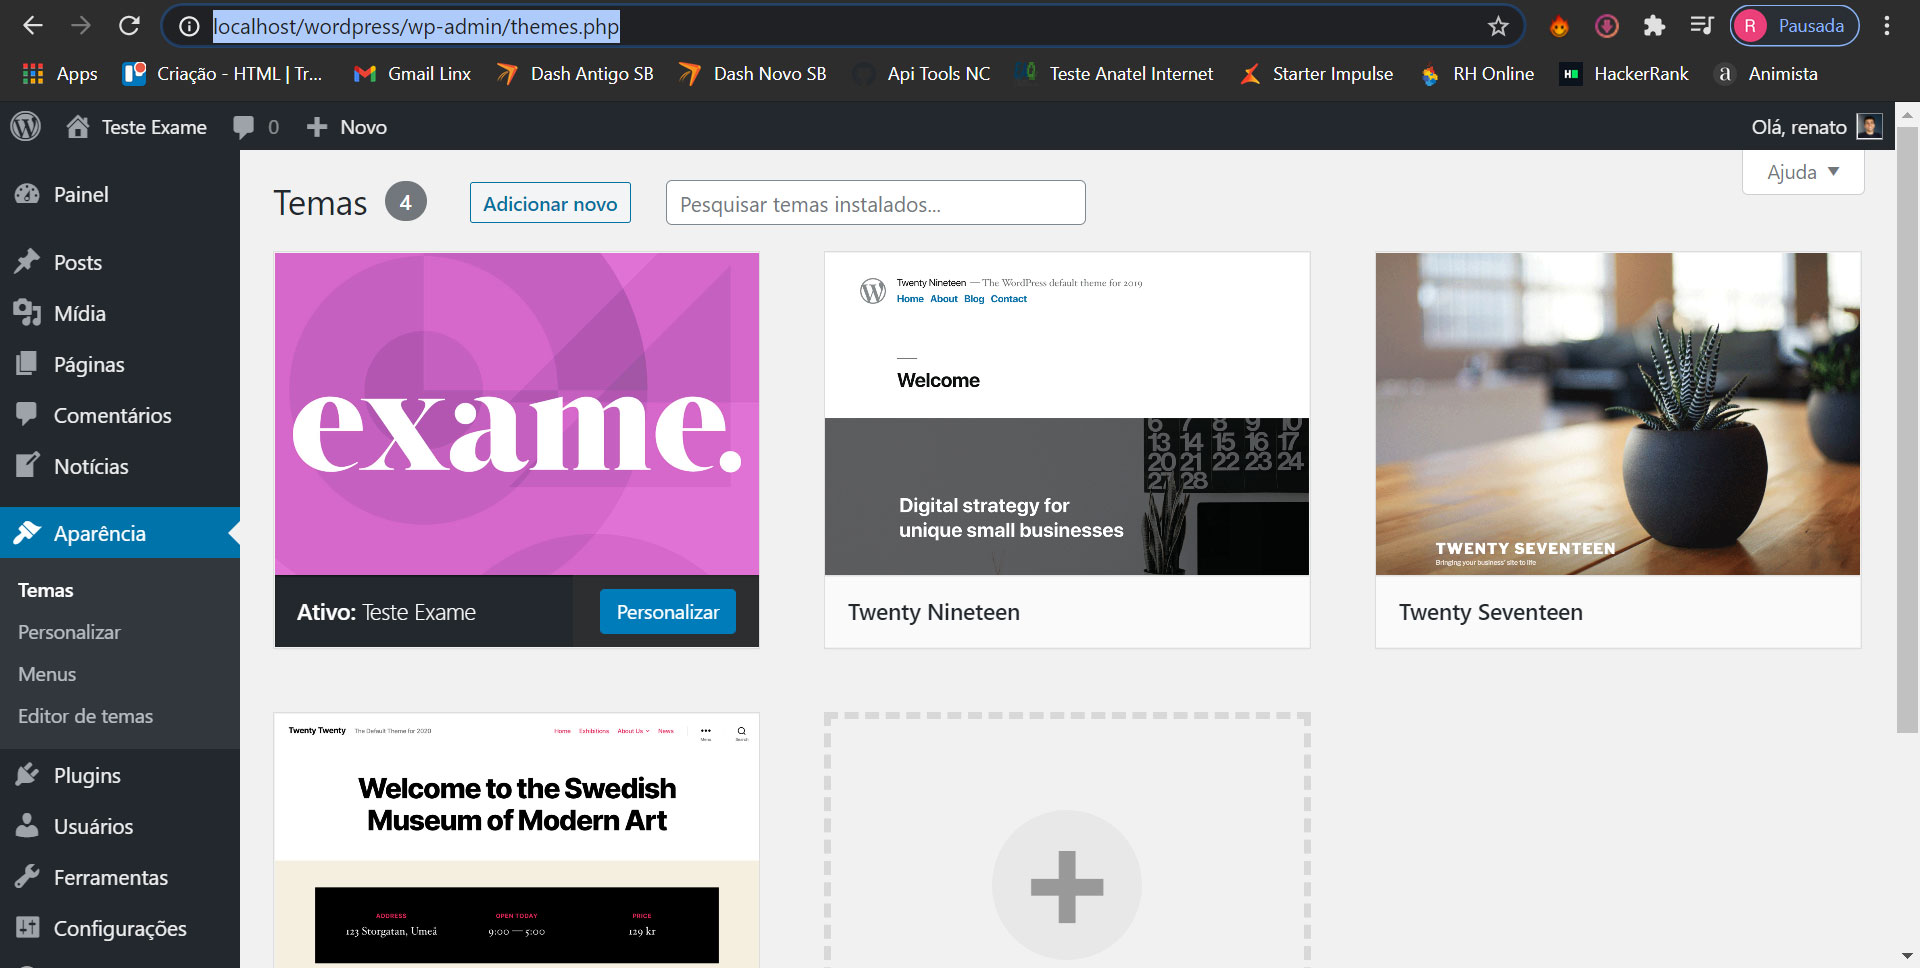
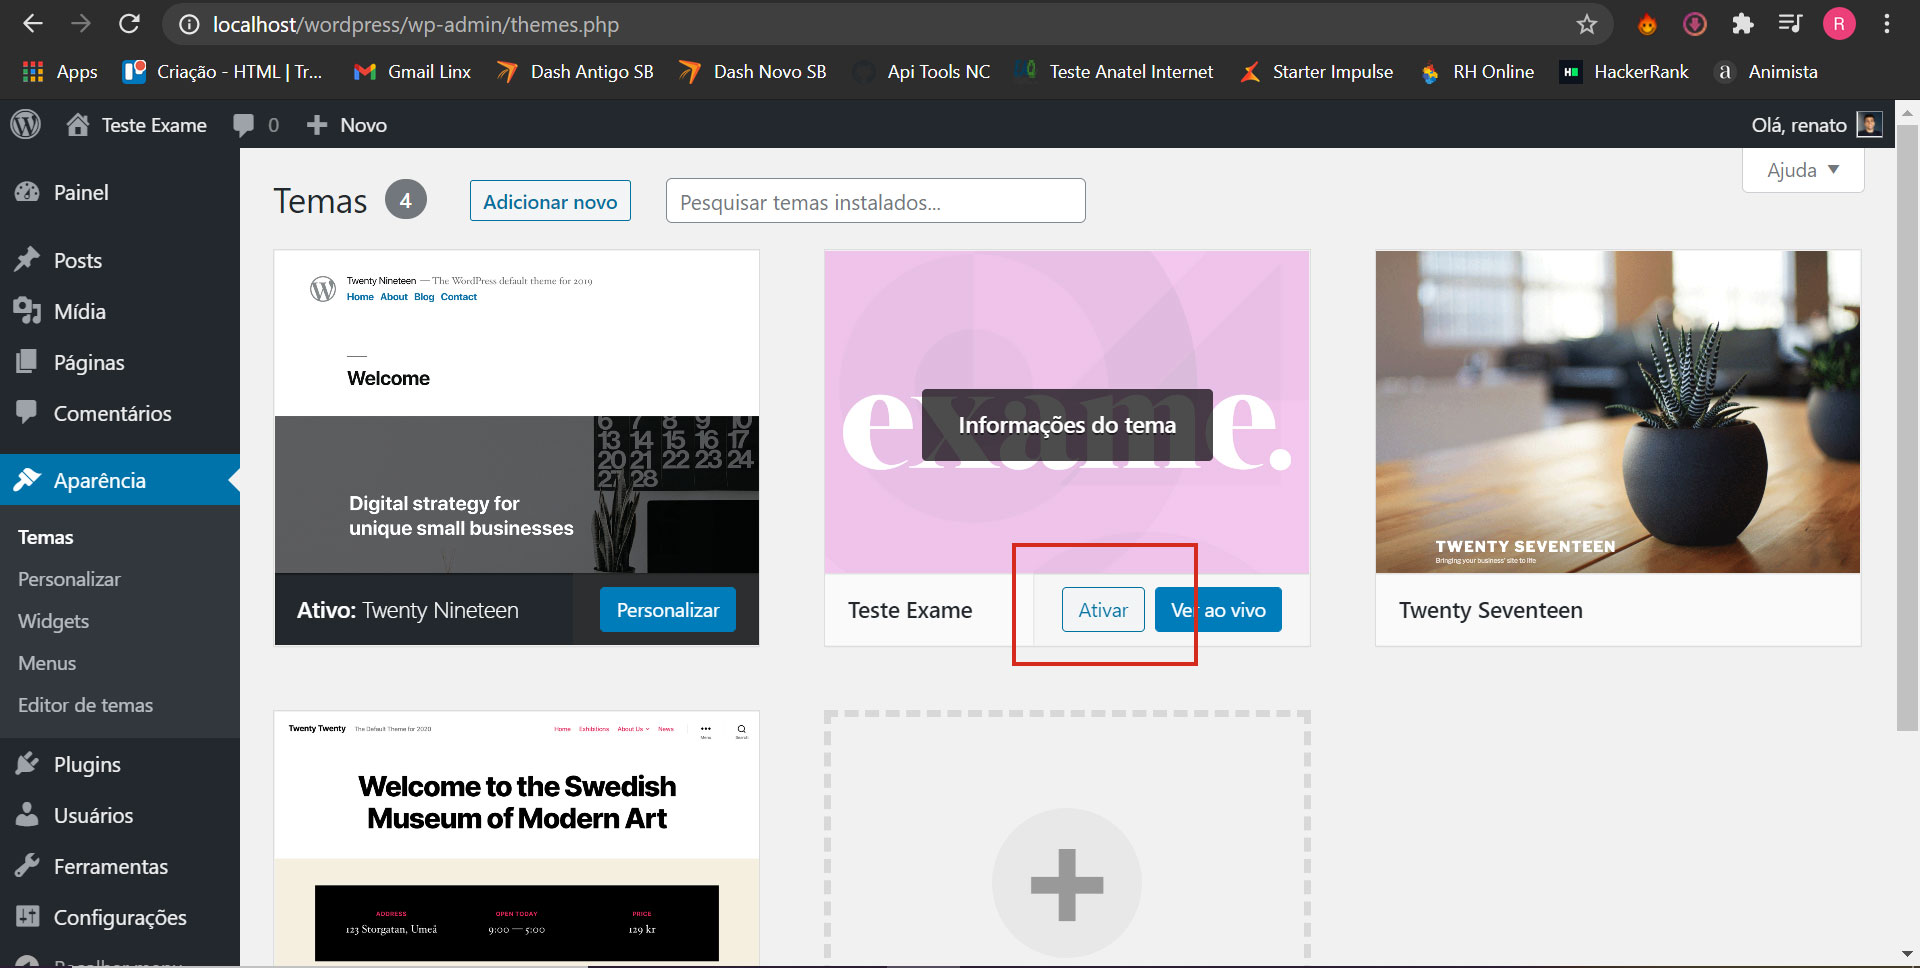
Novas informações no READ.ME

diff --git a/README.md b/README.md
@@ -4,13 +4,16 @@ Instruções Iniciais:
 
 - Instale um ambiente PHP. Eu usei o [XAMPP](https://www.apachefriends.org/pt_br/index.html). Instale o wordpress na máquina local.
 - Navegue para: ...\wp-content\themes\ e jogue dentro, a branch master desse repositório.
-- [Localize o tema no dashboard do WP](#localize-o-tema), navegando para Aparência > Temas (.../wp-admin/themes.php).
+- [Localize e ative o tema no dashboard do WP](#localize-e-ative-o-tema), navegando para Aparência > Temas (.../wp-admin/themes.php).
 - [Crie uma página chamada Notícias](#crie-uma-pagina-chamada-noticias), navegando para Páginas > Todas as páginas > Adicionar Nova (.../wp-admin/edit.php?post_type=page). OBS: Não precisa escrever nada nela, se não quiser, mas é necessário, criá-la e salvá-la. 
 - [Crie e Categorize as Notícias](#crie-e-categorize-noticias), navegando para Notícias > Notícias > Adicionar Nova (.../wp-admin/edit.php?post_type=noticias).
 - É importante [certificar que os permalinks estão selecionados como nome do post](#importante) em Configurações > Links Permanentes (.../wp-admin/options-permalink.php), senão as páginas das notícias não abrirão, e você será redirecionado para a home do site.
 - Para consultar o json com todas as notícias, acrescente a url da home: **/wp-json/wp/v2/noticias/**. Exemplo: http://localhost/wordpress/wp-json/wp/v2/noticias/.
+- Se desejar, [crie um novo usuário e senha, com a função de editor](#crie-um-novo-usuario-editor). Faça o login novamente, para ver como o dash dele é mais limpo e adaptado as necessidades que ele terá.
 
-## Localize o tema
+Crie um novo usuário editor
+
+## Localize e Ative o tema
 
 <p align='center'>
     <img src='assets/img/img-1.jpg' width='600' alt='Localize o tema'>
@@ -36,14 +39,46 @@ Instruções Iniciais:
     <img src='assets/img/img-4.jpg' width='600' alt='Crie Notícias'>
 </p>
 
-**Após cadastrar as notícias e suas taxonomias, você pode navegar pelas páginas como abaixo:**
+**Após cadastrar as notícias e suas taxonomias, você pode navegar na página notícia como abaixo:**
 
 <p align='center'>
     <img src='assets/img/img-5.jpg' width='600' alt='Crie Notícias'>
 </p>
 
-## Importante
+**Ver a home como abaixo, com as 3 últimas notícias cadastradas:**
 
 <p align='center'>
     <img src='assets/img/img-6.jpg' width='600' alt='Crie Notícias'>
+</p>
+
+**Ou clicar na notícia e ver a single.php dela assim:**
+
+<p align='center'>
+    <img src='assets/img/img-7.jpg' width='600' alt='Crie Notícias'>
+</p>
+
+**Ou clicar na taxonomia da notícia a ver todas outras que possuem a mesma:**
+
+<p align='center'>
+    <img src='assets/img/img-8.jpg' width='600' alt='Crie Notícias'>
+</p>
+
+## Importante
+
+<p align='center'>
+    <img src='assets/img/img-9.jpg' width='600' alt='Crie Notícias'>
+</p>
+
+## Crie um novo usuário editor
+
+**Crie um novo usuário e senha, com a função de editor**
+
+<p align='center'>
+    <img src='assets/img/img-10.jpg' width='600' alt='Crie Notícias'>
+</p>
+
+**Veja o dash para usuários com função de editor**
+
+<p align='center'>
+    <img src='assets/img/img-11.jpg' width='600' alt='Crie Notícias'>
 </p>
